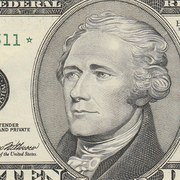
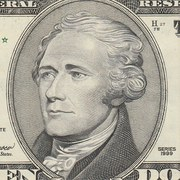
Testimonial 3: revert the oval-centring move, back to the crop with its left edge at x=457
Able asked for the revert: the oval cannot be centred and the edges on the letters at the same
time, and he wants the letter-aligned crop. So the 640px square goes back to x 457..1097, y
62..702 - the crop from 1d8358d - which puts the oval 87px left of the circle's centre again.

The 455 / 450 / 445 variants he suggested are prepared as drawn edge lines over the TEN area and as
masked avatars rather than pushed: at 640px downscaled to 180, a 5px move is about 1.4px in the
file, so the choice is really about where the window sits on the note, and one look should settle
which of the three it is.

Its src moves to ?v=20261012.72.

diff --git a/index.html b/index.html
@@ -319,7 +319,7 @@
                         <!-- Testimonial 3 -->
                         <div class="testimonial">
                           <div class="img">
-                            <img src="img/testimonials/testimonial-3.jpg?v=20261012.71" alt="Alexander Hamilton">
+                            <img src="img/testimonials/testimonial-3.jpg?v=20261012.72" alt="Alexander Hamilton">
                           </div>
                           <div class="text">
                             <p>Legacy.<br>What is a legacy?<br>It's planting seeds in a garden you never get to see.</p>
